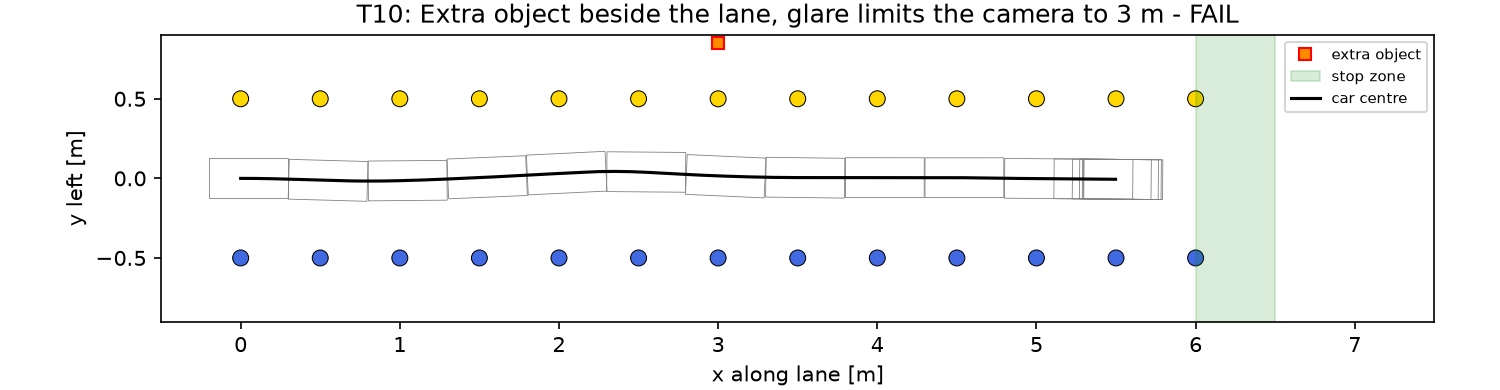
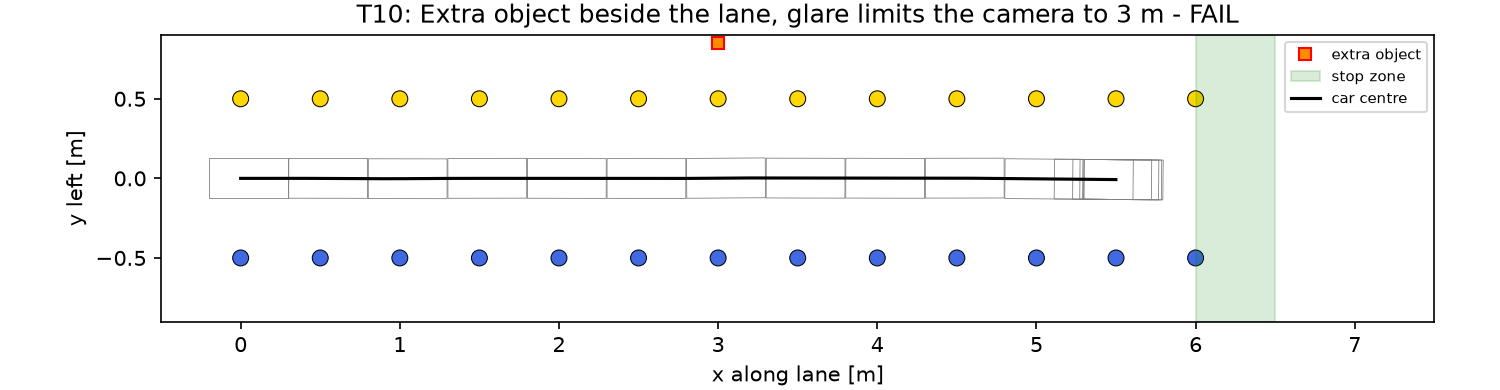
fix: adapt Stage 1 test cases to the v0.3.0 observations and cone filter
PR #6 failed CI once merged (and was reverted in 631e7bb) because #7
replaced CarObservations.lidar_obs with fiducials, lidar_scan and
lidar_cartesian, and cones became a ConeBatch.

- Build CarObservations with the new fields and a ConeBatch
- Run the team's current chain, as in MovementPolicy.step: the shipped cone
  filter, then the MPC (ConeFilteredPolicy, shipped_mpc_policy)
- Import the policy package at module level, so the harness and the MPC
  share one import even after test_src_compiles.py re-imports it
- Refresh the results table and trajectory figures

Changed region(s): [[0.184, 0.3692, 0.7973, 0.5231]]

diff --git a/tests/policy/stage1_scenarios.py b/tests/policy/stage1_scenarios.py
@@ -28,9 +28,15 @@ import numpy as np
 
 sys.path.insert(0, str(Path(__file__).resolve().parents[2]))
 
+# Imported here rather than inside functions, so every policy object comes from the same import of the policy
+# package even if another test re-imports it (test_src_compiles.py does)
+import dataclasses  # noqa: E402
+from policy.action_policy.mpc import MpcConfig  # noqa: E402
+from policy.action_policy.policy import MpcPolicy  # noqa: E402
+from policy.cone_filter.cone_filter import ConeFilterConfig, filter_cones  # noqa: E402
 from policy.control.actions import DriveCommand  # noqa: E402
 from policy.input_output import (  # noqa: E402
-    CarObservations, ConeColour, ConeDetection, Detections, ObservedCarState, PolicyState, Position, SensorAge,
+    CarObservations, ConeBatch, ConeColour, ConeDetection, ObservedCarState, PolicyState, Position, SensorAge,
     WheelSpeed)
 
 # ---------------------------------------------------------------------------------------------------------------
@@ -478,8 +484,11 @@ def run_case(case: Stage1Case, policy, thresholds: Thresholds = Thresholds()) ->
             speed = scalar(observation["body_longitudinal_velocity_mps"])
             first = step == 0
             observations = CarObservations(
-                cones=None if cones is None else Detections(cones, SensorAge(case.disturbances.delay_s, None)),
-                lidar_obs=None,
+                cones=None if cones is None else ConeBatch(cones, SensorAge(case.disturbances.delay_s, None),
+                                                           acquisition_to_publish_latency_s=0.0),
+                fiducials=None,
+                lidar_scan=None,
+                lidar_cartesian=None,
                 car=ObservedCarState(None, None, None, WheelSpeed(abs(speed), SensorAge(0.0, None))),
                 policy=PolicyState(dt=0.0 if first else POLICY_PERIOD_S, policy_elapsed_s=step * ENV_STEP_S,
                                    is_first_policy_step=first),
@@ -745,16 +754,42 @@ def format_table(results: list[Stage1Result]) -> str:
     return "\n".join(rows)
 
 
+class ConeFilteredPolicy:
+    """Runs the cone filter before a policy, as MovementPolicy.step in policy/policy_runner.py does on the car.
+
+    Lane detection is skipped (it does not produce lanes yet) and control is replaced by command_to_action.
+    """
+
+    def __init__(self, policy, cone_filter_config):
+        """
+        :param policy: The movement policy, with run_policy(observations, lanes).
+        :param cone_filter_config: The cone filter settings (ConeFilterConfig).
+        """
+        self.policy = policy
+        self.cone_filter_config = cone_filter_config
+
+    @property
+    def fallback_count(self) -> int:
+        return getattr(self.policy, "fallback_count", 0)
+
+    def run_policy(self, observations: CarObservations, lanes):
+        filtered = dataclasses.replace(observations, cones=filter_cones(observations.cones, self.cone_filter_config))
+        return self.policy.run_policy(filtered, lanes)
+
+
 def mpc_config_for(case: Stage1Case):
     """The MPC settings for a case: the shipped defaults, set to the case's speed and lane width, as the team would
     configure them for that lane in config/ai4r_policy.yaml."""
-    from policy.action_policy.mpc import MpcConfig
     return MpcConfig(target_speed_m_per_s=case.speed_m_per_s, lane_width_m=case.lane.width_m)
+
+
+def shipped_mpc_policy(case: Stage1Case) -> ConeFilteredPolicy:
+    """The team's current pipeline for a case: the shipped cone filter settings, then the MPC (mpc_config_for)."""
+    return ConeFilteredPolicy(MpcPolicy(mpc_config_for(case)), ConeFilterConfig())
 
 
 def main():
     import argparse
-    from policy.action_policy.policy import MpcPolicy
     from stage1_tuning_cases import TUNING_CASES
 
     parser = argparse.ArgumentParser(description=__doc__.split("\n")[0])
@@ -774,7 +809,7 @@ def main():
         cases = UNSEEN_CASES
     results = []
     for case in cases:
-        result = run_case(case, MpcPolicy(mpc_config_for(case)))
+        result = run_case(case, shipped_mpc_policy(case))
         results.append(result)
         if args.figures:
             args.figures.mkdir(parents=True, exist_ok=True)

diff --git a/tests/policy/test_stage1_scenarios.py b/tests/policy/test_stage1_scenarios.py
@@ -17,7 +17,6 @@ sys.path.insert(0, str(Path(__file__).resolve().parents[2]))
 
 import stage1_scenarios as s1  # noqa: E402
 from stage1_tuning_cases import TUNING_CASES  # noqa: E402
-from policy.action_policy.policy import MpcPolicy  # noqa: E402
 from policy.control.actions import DriveCommand  # noqa: E402
 from policy.input_output import ConeColour  # noqa: E402
 
@@ -197,9 +196,9 @@ def test_stopping_outside_the_zone_fails(stop_x_m):
 # ------------------------------------------------------------------------------------------------
 @functools.cache
 def mpc_result(case):
-    """Runs the shipped MPC settings, set to the case's speed and lane width, once per case."""
+    """Runs the team's pipeline (shipped cone filter, then the MPC at the case's speed and lane width) once per case."""
     pytest.importorskip("dreamgym")
-    return s1.run_case(case, MpcPolicy(s1.mpc_config_for(case)))
+    return s1.run_case(case, s1.shipped_mpc_policy(case))
 
 
 def driving_failures(result):
@@ -209,7 +208,7 @@ def driving_failures(result):
 
 DYNAMIC_MODEL_XFAIL = pytest.mark.xfail(
     reason="Unexplained: on dream-gym's dynamic tyre model the car holds a steady heading error (3 degrees dry, "
-           "6 degrees wet) without turning, so it ends 0.12 m off centre. Check the tyre model against the 1:10 car "
+           "6 degrees wet) without turning, so it ends about 0.15 m off centre. Check the tyre model against the 1:10 car "
            "(Task A2) before tuning on T11.", strict=False)
 
 

diff --git a/docs/stage1-test-cases.md b/docs/stage1-test-cases.md
@@ -22,7 +22,9 @@ python3 tests/policy/stage1_scenarios.py --layout docs/figures   # redraw the fl
 ```
 
 **Testing a design.** `run_case(case, policy)` accepts any object with `run_policy(observations, lanes)` returning
-a `DriveCommand`, so MPC and RL use the same cases, metrics and disturbances (Card 1.3). The policy only receives
+a `DriveCommand`, so MPC and RL use the same cases, metrics and disturbances (Card 1.3). `shipped_mpc_policy(case)`
+is the team's current chain, as in `MovementPolicy.step`: the shipped cone filter (`ConeFilterConfig`), then the MPC;
+wrap another design in `ConeFilteredPolicy` to give it the same filtered cones. The policy only receives
 cone detections, wheel speed and timing; the simulator's ground truth is used only to set up the case, create the
 disturbances and score the run.
 
@@ -77,28 +79,31 @@ at the 0.33 m wheelbase). The stop zone follows the card's example rule.
 
 ### Current result: shipped MPC on the tuning cases
 
-Shipped `MpcConfig` defaults with the case's speed and lane width, in simulation (5 October 2026):
+Shipped `ConeFilterConfig` defaults, then shipped `MpcConfig` defaults with the case's speed and lane width, in
+simulation (6 October 2026):
 
 | Case | Lane | Touched | Outside lane [m] | Lat. err. at end [m] | Speed err. [m/s] | Curv. rate RMS [1/(m s)] | Stop past last cone [m] | Fallbacks | Result |
 | --- | --- | --- | --- | --- | --- | --- | --- | --- | --- |
 | T1 | 6x1m_0.5 | 0 | 0.000 | 0.002 | 0.000 | 0.14 | -0.50 | 0 | Fail (R5) |
 | T2 | 6x1m_0.5 | 0 | 0.000 | 0.003 | 0.000 | 0.35 | -0.51 | 0 | Fail (R5) |
 | T3 | 6x1m_0.5 | 0 | 0.000 | 0.001 | 0.000 | 0.32 | -0.50 | 0 | Fail (R5) |
-| T4 | 6x1m_0.5 | 0 | 0.000 | 0.002 | 0.000 | 0.35 | -0.50 | 0 | Fail (R5) |
+| T4 | 6x1m_0.5 | 0 | 0.000 | 0.007 | 0.000 | 0.38 | -0.50 | 0 | Fail (R5) |
 | T5 | 6x1m_0.5 | 0 | 0.000 | 0.000 | 0.000 | 0.62 | -0.51 | 0 | Fail (R5) |
 | T6 | 6x1m_0.5 | 0 | 0.000 | 0.005 | 0.003 | 0.12 | -0.38 | 0 | Fail (R5) |
 | T7 | 6x0.8m_0.5 | 0 | 0.000 | 0.000 | 0.000 | 0.25 | -0.40 | 0 | Fail (R5) |
 | T8 | 6x1.2m_0.75 | 0 | 0.000 | 0.000 | 0.000 | 0.38 | -0.91 | 0 | Fail (R5) |
-| T9 | 8x1m_0.5 | 0 | 0.000 | 0.000 | 0.000 | 0.17 | -0.50 | 0 | Fail (R5) |
-| T10 | 6x1m_0.5 | 0 | 0.000 | 0.006 | 0.000 | 0.37 | -0.50 | 0 | Fail (R5) |
-| T11 | 6x1m_0.5 | 0 | 0.000 | 0.122 | 0.001 | 0.86 | -0.21 | 0 | Fail (R1, R5) |
+| T9 | 8x1m_0.5 | 0 | 0.000 | 0.005 | 0.000 | 0.15 | -0.50 | 0 | Fail (R5) |
+| T10 | 6x1m_0.5 | 0 | 0.000 | 0.008 | 0.000 | 0.17 | -0.50 | 0 | Fail (R5) |
+| T11 | 6x1m_0.5 | 0 | 0.000 | 0.153 | 0.001 | 0.89 | -0.20 | 0 | Fail (R1, R5) |
 
 - **Lane end (R5, all cases).** The MPC follows the lane well but stops 0.4 to 0.9 m **before** the last cone
   pair. Each row needs two cones at least 0.25 m apart, and the 80 degree camera cannot see a cone beside the lane
   closer than about 0.6 m ahead (more on wider lanes), so the lane is "lost" before the end. This is the lane-end
   rule for Task A7. The stop-zone test is marked `xfail` until then; remove the mark when A7 is done.
+- **Extra object (T10).** The cone filter removes the object beside the lane (it is off the yellow row), so the
+  steering is smoother than without the filter (curvature-rate RMS 0.17 against 0.37 1/(m s)).
 - **Wet floor (T11).** On dream-gym's dynamic tyre model the car holds a steady heading error (about 3 degrees on a
-  dry floor and 6 degrees on a wet one) while not turning, and ends 0.12 m off centre. This also happens on a dry
+  dry floor and 6 degrees on a wet one) while not turning, and ends 0.15 m off centre. This also happens on a dry
   floor, so the tyre model may not be calibrated for a 1:10 car. Check it (Task A2) before tuning on T11; its
   driving test is marked `xfail` until then.
 
